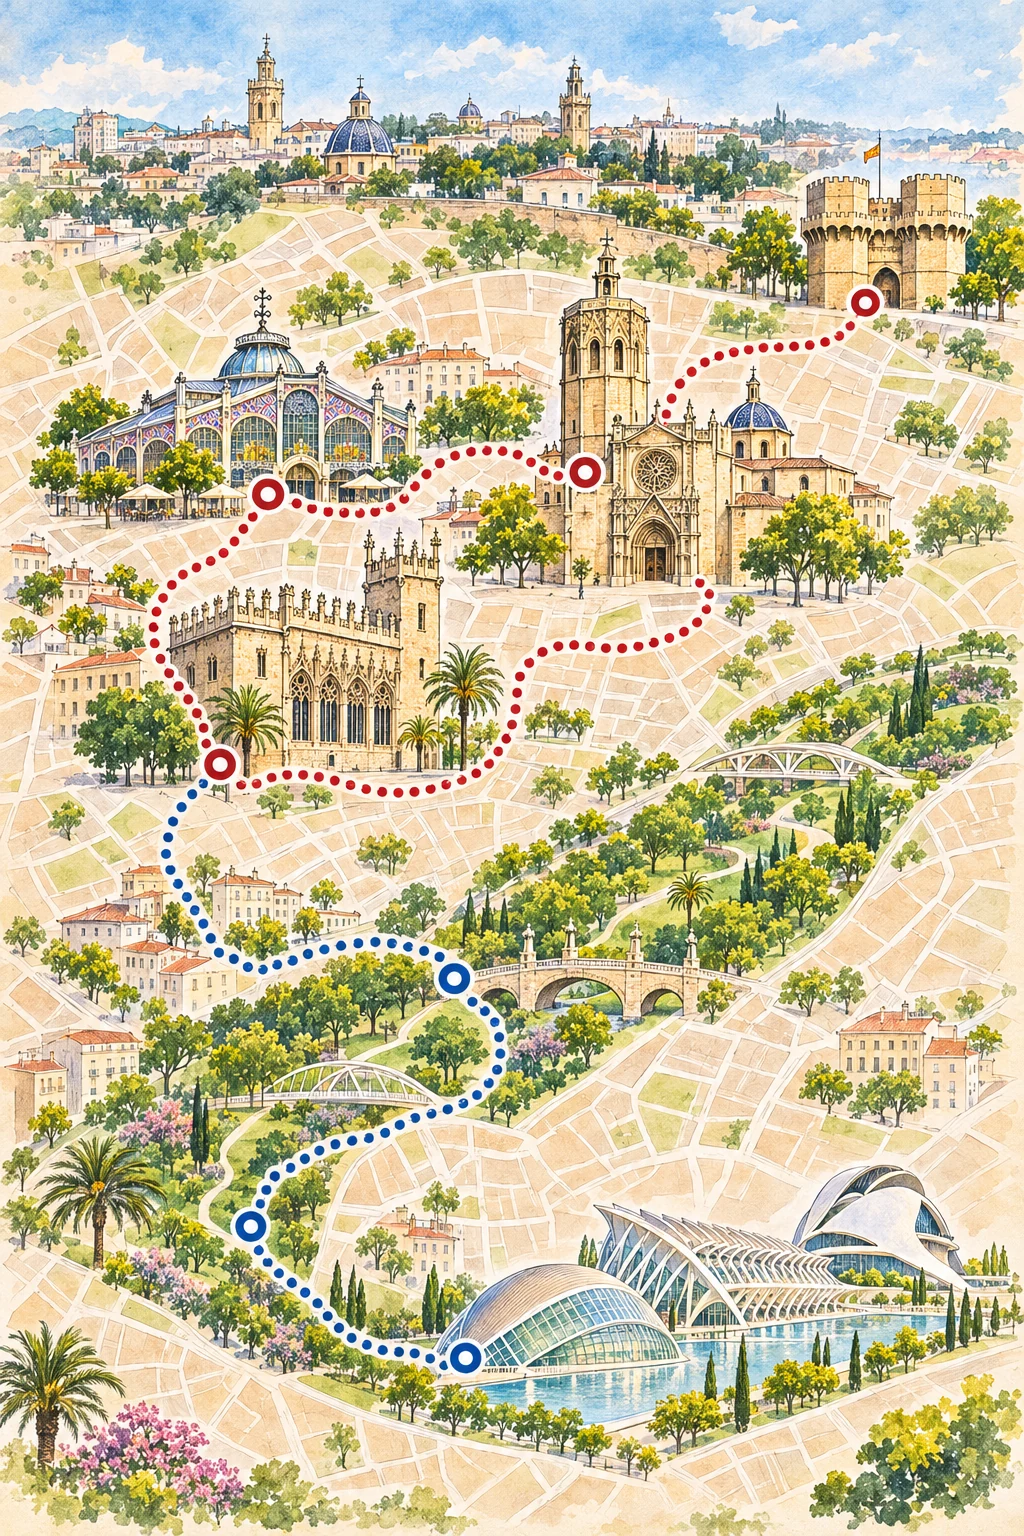
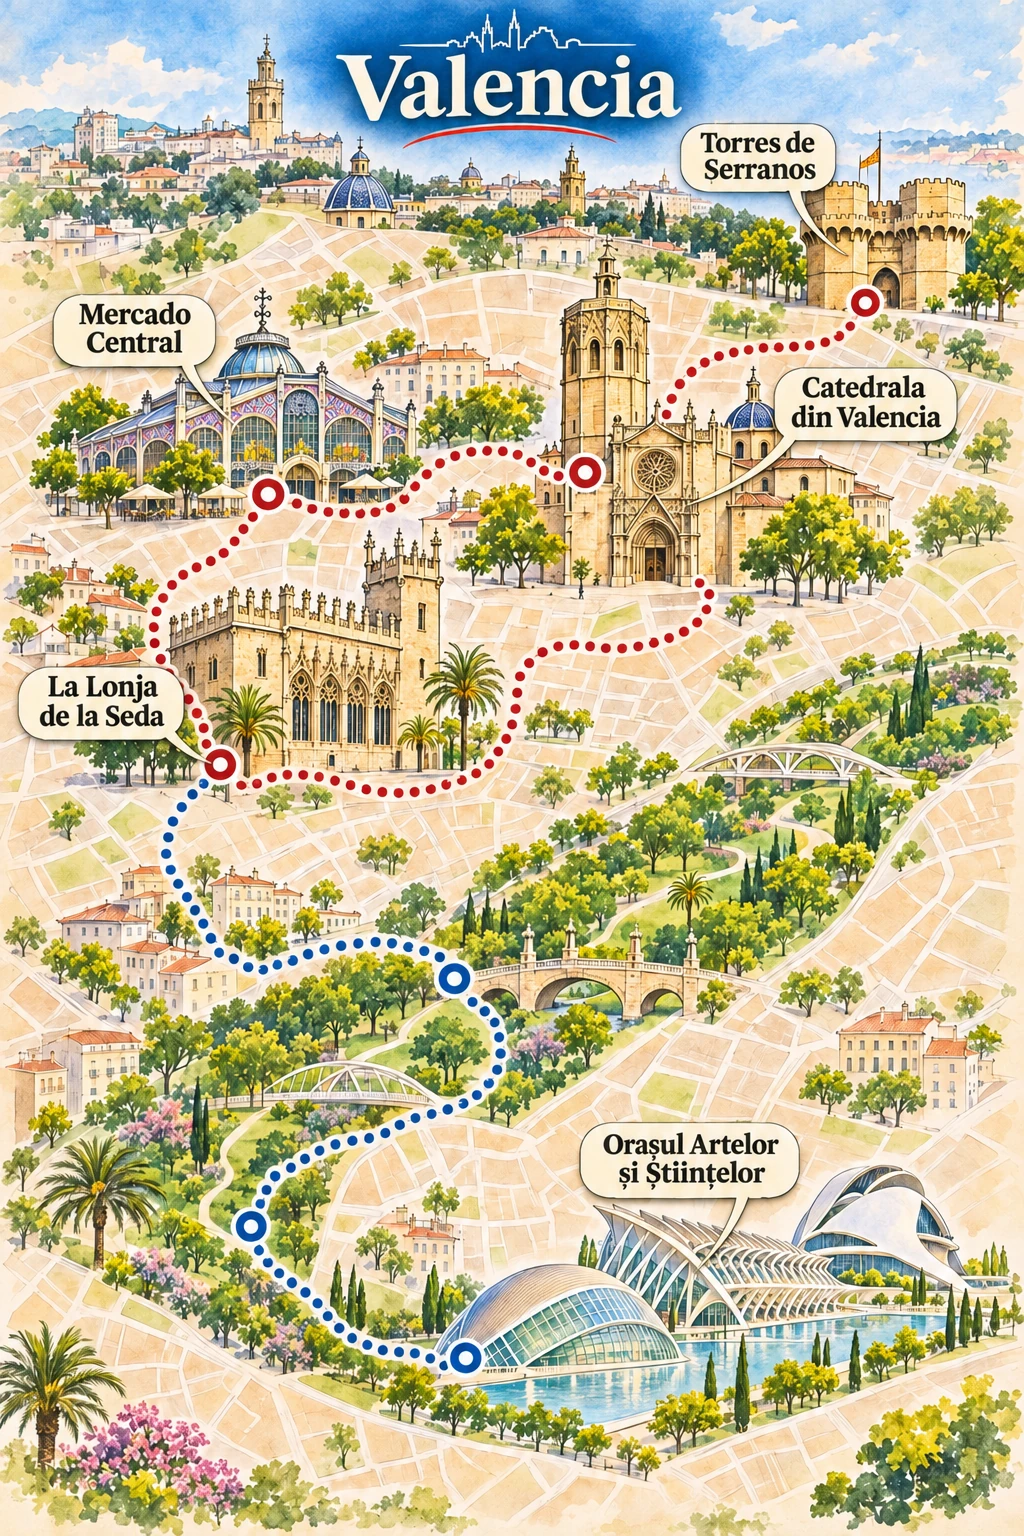
Label Valencia guide map

diff --git a/ILUSTRATII.md b/ILUSTRATII.md
@@ -40,9 +40,10 @@ Se adaugă numele obiectivelor direct pe hărțile existente, în stilul aprobat
 - Dubrovnik
 - Palermo
 - Pisa și Florența
+- Valencia
 
 Harta originală pentru Praga avea deja etichete. Celelalte orașe din `assets/guides-prague-style/` necesită în continuare verificare și prelucrare. Actualizează această listă în același commit cu fiecare lot nou.
 
-Ilustrațiile fără etichete sunt păstrate în istoricul Git: pentru Roma și Barcelona folosește fișierul de la commitul `14f016a`, iar pentru Paris, Londra, Lisabona, Berlin și Bruxelles de la `508e691`. Pentru Budapesta, Atena, Veneția, Amsterdam, Viena, Milano, Madrid, Bologna, Lyon, Porto, Varșovia, Copenhaga, Edinburgh, Bruges, Köln, Dublin, Cracovia, Stockholm, Chișinău, Bratislava, Sofia, Oslo, Bari, Napoli, Sevilla, Istanbul, Dubrovnik, Palermo, Pisa și Florența se pot folosi originalele de la `48efdd5`. Copii locale sunt în `/workspace/guide-batch/original-illustrations` când acel director este disponibil. Păstrează imaginile originale pentru quiz.
+Ilustrațiile fără etichete sunt păstrate în istoricul Git: pentru Roma și Barcelona folosește fișierul de la commitul `14f016a`, iar pentru Paris, Londra, Lisabona, Berlin și Bruxelles de la `508e691`. Pentru Budapesta, Atena, Veneția, Amsterdam, Viena, Milano, Madrid, Bologna, Lyon, Porto, Varșovia, Copenhaga, Edinburgh, Bruges, Köln, Dublin, Cracovia, Stockholm, Chișinău, Bratislava, Sofia, Oslo, Bari, Napoli, Sevilla, Istanbul, Dubrovnik, Palermo, Pisa, Florența și Valencia se pot folosi originalele de la `48efdd5`. Copii locale sunt în `/workspace/guide-batch/original-illustrations` când acel director este disponibil. Păstrează imaginile originale pentru quiz.
 
 Nu modifica funcționalitatea de căutare a zborurilor în cadrul acestei activități.
